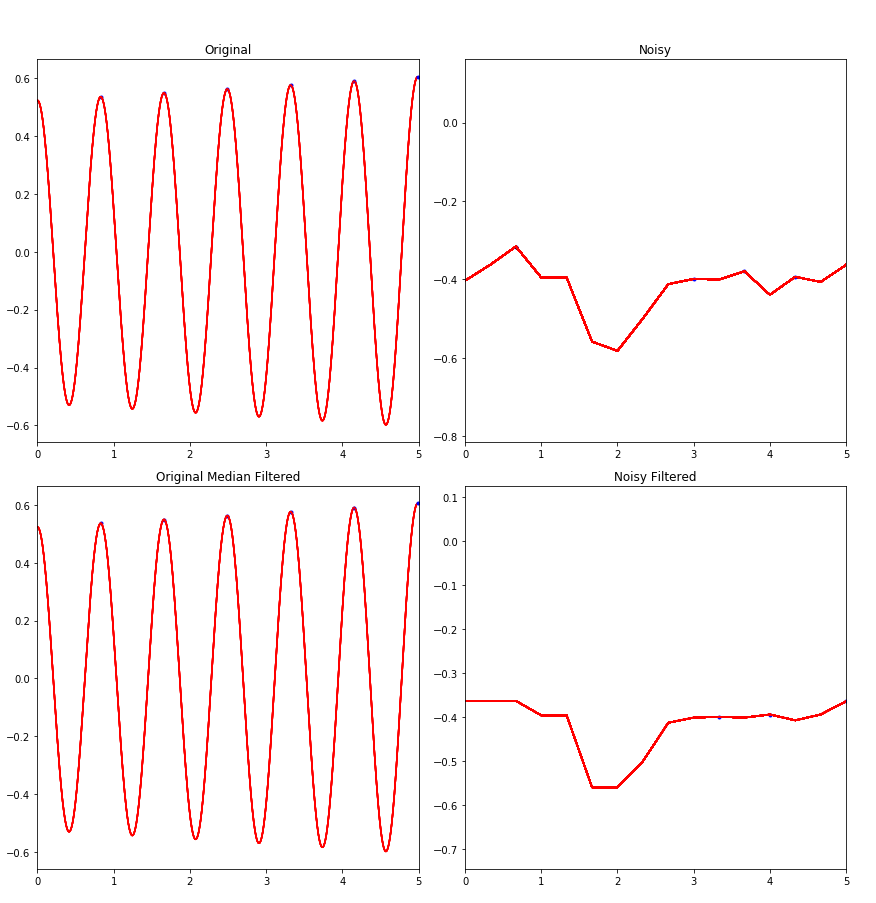
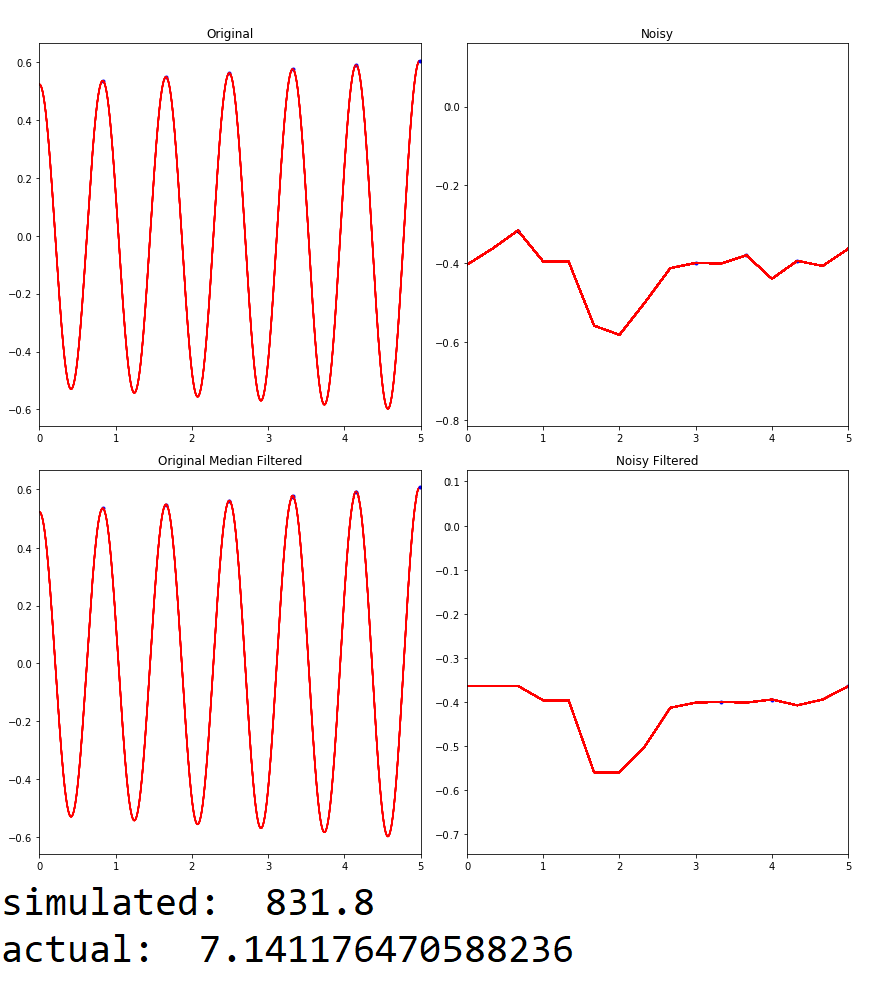
Updated so graphs have periods

diff --git a/Position Graphs.py b/Position Graphs.py
@@ -9,7 +9,7 @@ L = .2413
 g = -9.81
 
 m = input("What file number would you like to use? ")
-L = sim.length(5)
+L = sim.length(1)
 
 run_time = 5
 init_ang_pos = (math.pi)/6
@@ -49,4 +49,5 @@ pos_filt_peaks = sim.find_peaks(pos_filt)
 sim.plot_filtered(list_of_times, list_of_times1, ang_pos, pos, ang_pos_filt, pos_filt,
                   ang_pos_peaks, pos_peaks, ang_pos_filt_peaks, pos_filt_peaks, run_time)
 
-# print(sim.find_period(pos))
+print("simulated: ", sim.find_period(ang_pos_peaks))
+print("actual: ", sim.find_period(pos_filt_peaks))

diff --git a/Simulation.py b/Simulation.py
@@ -126,13 +126,11 @@ def tilt(x, y, z):
         yradians.append(ytilt)
     return yradians
 
-def find_period(pos):
+def find_period(pos_peaks):
     i = 1
     MAX = []
-    pos_peaks = list(sig.find_peaks(pos))
-    pos = list(filter_peaks(pos_peaks))
     while i < len(pos_peaks):
-        MAX.append((pos[i])-(pos[i-1]))
+        MAX.append((pos_peaks[i])-(pos_peaks[i-1]))
         i += 1
     period = sum(MAX)/len(MAX)
     return period
